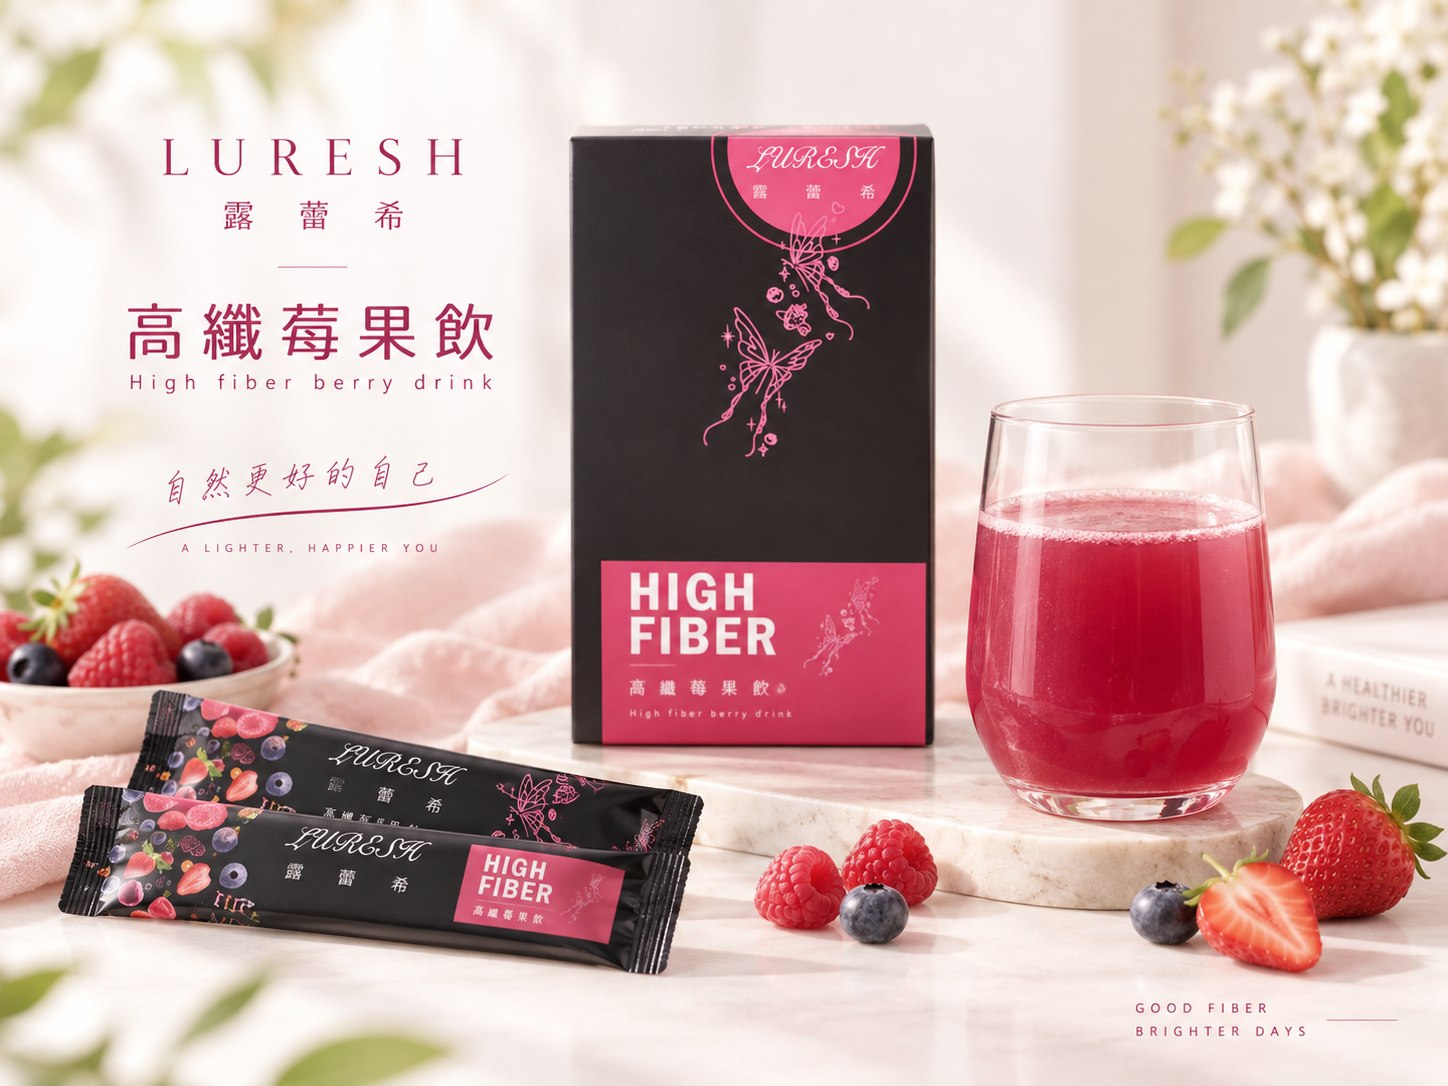
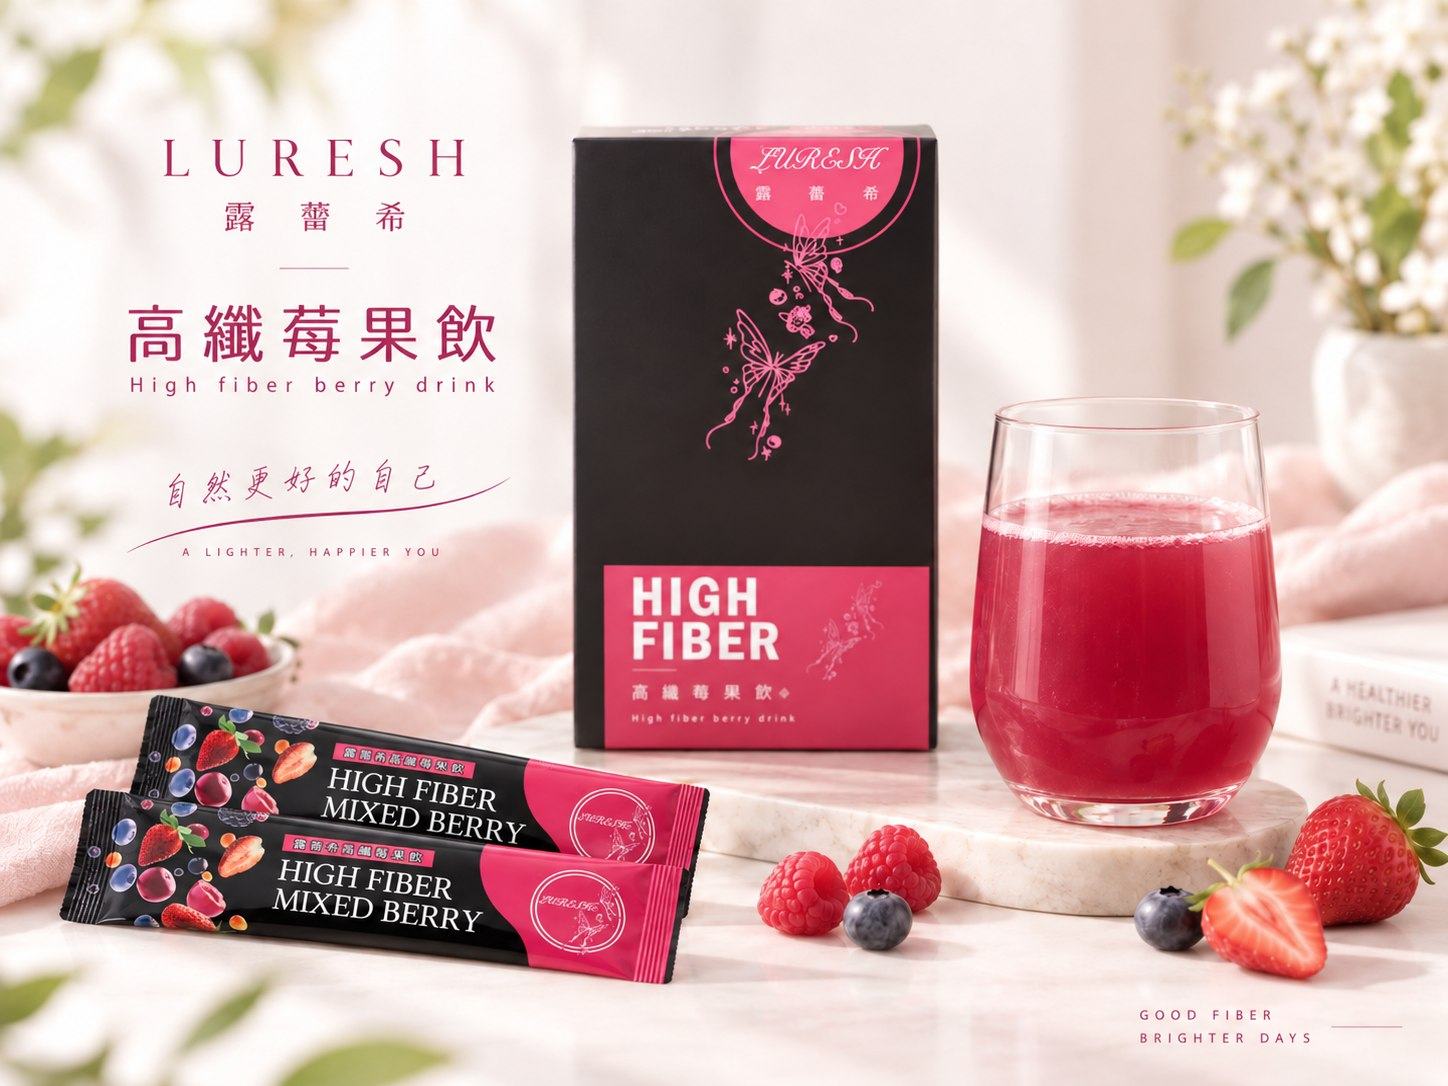
高纖莓果飲新包裝圖；商城新增日日水紅茶、茉莉花茶

diff --git a/product.html b/product.html
@@ -3,13 +3,25 @@
 <head>
 <meta charset="utf-8">
 <meta name="viewport" content="width=device-width, initial-scale=1">
-<title>高纖莓果飲｜露蕾希 LURESH</title>
-<meta name="description" content="露蕾希高纖莓果飲。特選專利植萃 × 多重膳食纖維，低卡負擔、蛋奶素可食、專利專屬配方。">
+<title>商品｜露蕾希 LURESH</title>
+<meta name="description" content="露蕾希高纖莓果飲、日日水紅茶與茉莉花茶。">
 <link rel="preconnect" href="https://fonts.googleapis.com">
 <link rel="preconnect" href="https://fonts.gstatic.com" crossorigin>
 <link href="https://fonts.googleapis.com/css2?family=Cormorant+Garamond:ital,wght@0,400;0,500;0,600;1,400;1,500&family=Noto+Serif+TC:wght@400;500;600;700&family=Noto+Sans+TC:wght@300;400;500;700&display=swap" rel="stylesheet">
 <link rel="stylesheet" href="styles.css">
 <link rel="stylesheet" href="shop.css">
+<style>
+  .related{padding:0 0 96px}
+  .related h2{text-align:center;margin-bottom:34px}
+  .related .grid{display:grid;grid-template-columns:repeat(2,1fr);gap:26px;max-width:760px;margin:0 auto}
+  .related a{display:grid;grid-template-columns:110px 1fr;gap:16px;align-items:center;border:1px solid var(--line);padding:14px;transition:transform .35s,box-shadow .35s}
+  .related a:hover{transform:translateY(-4px);box-shadow:0 18px 36px -24px rgba(142,39,67,.35)}
+  .related img{width:110px;height:110px;object-fit:cover}
+  .related b{font-family:var(--tc-serif);font-size:16px;font-weight:600;letter-spacing:.08em;display:block}
+  .related span{font-size:12px;color:var(--ink-soft);display:block;margin-top:4px}
+  .related i{font-style:normal;font-family:var(--serif);font-size:18px;display:block;margin-top:6px}
+  @media(max-width:600px){.related .grid{grid-template-columns:1fr}}
+</style>
 </head>
 <body>
 
@@ -39,20 +51,20 @@
 </header>
 
 <main class="wrap">
-  <div class="crumb"><a href="shop.html">商城</a><span>/</span><span id="crumbName">高纖莓果飲</span></div>
+  <div class="crumb"><a href="shop.html">商城</a><span>/</span><span id="crumbName"></span></div>
 
   <div class="product">
     <div class="gallery">
-      <div class="main"><img id="mainImg" src="images/hero-product.jpg" alt="露蕾希高纖莓果飲"></div>
+      <div class="main"><img id="mainImg" src="" alt=""></div>
       <div class="thumbs" id="thumbs"></div>
     </div>
 
     <div class="pinfo">
-      <div class="eyebrow">High Fiber Berry Drink</div>
-      <h1>露蕾希高纖莓果飲<small>LURESH · Luresh High Fiber</small></h1>
-      <div class="price"><span class="now"><b>NT$</b><span id="priceNow">1,280</span></span><span class="was" id="priceWas"></span><span class="save" id="priceSave" hidden></span></div>
+      <div class="eyebrow" id="eyebrow"></div>
+      <h1><span id="pname"></span><small id="pen"></small></h1>
+      <div class="price"><span class="now"><b>NT$</b><span id="priceNow"></span></span><span class="was" id="priceWas"></span><span class="save" id="priceSave" hidden></span></div>
       <div class="per" id="per"></div>
-      <p class="desc">專為外食族、忙碌上班族設計的輕體代謝飲品。結合多重纖維、強效酵素與阻斷澱粉、燃燒代謝專利萃取。每日 2 包，幫你輕鬆找回順暢快感與青春活力。</p>
+      <p class="desc" id="pdesc"></p>
 
       <div class="opt-label">規格<em id="optName"></em></div>
       <div class="variants" id="variants"></div>
@@ -69,43 +81,16 @@
         <button class="btn" onclick="add(true)">立即購買</button>
       </div>
 
-      <ul class="perks">
-        <li><svg viewBox="0 0 24 24"><path d="M5 12l4 4L19 6"/></svg>低卡負擔，每份僅 34.4 大卡</li>
-        <li><svg viewBox="0 0 24 24"><path d="M5 12l4 4L19 6"/></svg>蛋奶素可食・專利專屬配方</li>
-        <li><svg viewBox="0 0 24 24"><path d="M5 12l4 4L19 6"/></svg>台灣製造，通過多項 SGS 認證</li>
-        <li><svg viewBox="0 0 24 24"><path d="M5 12l4 4L19 6"/></svg>超商取貨、宅配到府，滿 NT$2,000 免運</li>
-      </ul>
-
-      <div class="acc">
-        <details open>
-          <summary>成分</summary>
-          <div class="body">綜合蔬果酵素、魔芋纖維、大麥萃取物、非洲芒果種子萃取物、藤黃果萃取物、白腎豆萃取物、洋車前子多酚、柑橘類黃酮與瓜拿納複合物（甜橙、血橙、葡萄柚及瓜拿納萃取物）、決明子萃取物。</div>
-        </details>
-        <details>
-          <summary>食用方法</summary>
-          <div class="body"><ul>
-            <li>睡前 30 分鐘，使用兩包高纖莓果飲，加入 240cc 的常溫或冷水，搖勻。</li>
-            <li>最佳飲用時間為晚上 9–11 點。嚴禁溫熱水。</li>
-            <li>蓋上搖杯搖 3–5 秒搖勻，不可放置超過十秒，直接飲用完畢。喝完請勿進食。</li>
-            <li>經期可以正常食用。</li>
-          </ul></div>
-        </details>
-        <details>
-          <summary>配送與退換貨</summary>
-          <div class="body"><ul>
-            <li>超商取貨運費 NT$60，宅配 NT$100，單筆滿 NT$2,000 免運。</li>
-            <li>付款完成後 1–2 個工作天出貨。</li>
-            <li>食品類商品拆封後恕不退換；未拆封可於收到 7 天內申請退貨。</li>
-          </ul></div>
-        </details>
-        <details>
-          <summary>攜帶出國</summary>
-          <div class="body">粉狀沖泡飲隨身行李不得超過 350g，一條 12.5g，隨身請控制在 28 包（14 天份）以內；託運則無此限制。</div>
-        </details>
-      </div>
-      <p class="notice">※ 價格與內容量為示意值，待確認後更新</p>
+      <ul class="perks" id="perks"></ul>
+      <div class="acc" id="acc"></div>
+      <p class="notice">※ 價格、內容量與茶品說明為示意值，待確認後更新</p>
     </div>
   </div>
+
+  <section class="related">
+    <h2><span class="en">You may also like</span>其他產品</h2>
+    <div class="grid" id="related"></div>
+  </section>
 </main>
 
 <footer>
@@ -122,39 +107,53 @@
 
 <script src="shop.js"></script>
 <script>
-  const IMAGES = ['images/hero-product.jpg','images/lifestyle-bed.jpg','images/ingredients-banner.jpg','images/poster-ingredients.jpg'];
-  const thumbs = document.getElementById('thumbs');
-  thumbs.innerHTML = IMAGES.map((src, i) => `<button type="button" class="${i===0?'on':''}" onclick="pick(${i})"><img src="${src}" alt=""></button>`).join('');
-  function pick(i){ document.getElementById('mainImg').src = IMAGES[i]; [...thumbs.children].forEach((b, j) => b.classList.toggle('on', i === j)); }
+  const q = new URLSearchParams(location.search);
+  const P = findProduct(q.get('p')) || PRODUCTS[0];
+  let current = P.variants.some(v => v.id === q.get('v')) ? q.get('v') : P.variants[0].id;
 
-  let current = new URLSearchParams(location.search).get('v') || 'box1';
-  if (!PRODUCT.variants.some(v => v.id === current)) current = 'box1';
+  document.title = P.name + '｜露蕾希 LURESH';
+  document.getElementById('crumbName').textContent = P.name;
+  document.getElementById('eyebrow').textContent = P.eyebrow;
+  document.getElementById('pname').textContent = P.name;
+  document.getElementById('pen').textContent = 'LURESH · ' + P.en;
+  document.getElementById('pdesc').textContent = P.desc;
+  document.getElementById('perks').innerHTML = P.perks.concat(['超商取貨、宅配到府，滿 NT$2,000 免運']).map(t => `<li><svg viewBox="0 0 24 24"><path d="M5 12l4 4L19 6"/></svg>${t}</li>`).join('');
+  document.getElementById('acc').innerHTML = P.sections.concat([SHIP_SECTION]).map(([t, b], i) => `<details ${i===0?'open':''}><summary>${t}</summary><div class="body">${b}</div></details>`).join('');
+
+  const thumbs = document.getElementById('thumbs');
+  thumbs.innerHTML = P.gallery.map((src, i) => `<button type="button" class="${i===0?'on':''}" onclick="pick(${i})"><img src="${src}" alt=""></button>`).join('');
+  function pick(i){ const m = document.getElementById('mainImg'); m.src = P.gallery[i]; m.alt = P.name; [...thumbs.children].forEach((b, j) => b.classList.toggle('on', i === j)); }
+  pick(0);
+
   const vbox = document.getElementById('variants');
   function renderVariants(){
-    vbox.innerHTML = PRODUCT.variants.map(v => `
+    vbox.innerHTML = P.variants.map(v => `
       <button type="button" class="variant ${v.id===current?'on':''}" onclick="choose('${v.id}')">
         ${v.tag ? `<span class="tag">${v.tag}</span>` : ''}
         <b>${v.name}</b><span>${v.desc}</span><i>${money(v.price)}</i>
       </button>`).join('');
-    const v = PRODUCT.variants.find(v => v.id === current);
+    vbox.style.gridTemplateColumns = `repeat(${Math.min(3, P.variants.length)},1fr)`;
+    const v = P.variants.find(v => v.id === current);
     document.getElementById('priceNow').textContent = v.price.toLocaleString('zh-Hant-TW');
     document.getElementById('priceWas').textContent = v.was ? money(v.was) : '';
     const save = document.getElementById('priceSave');
     if (v.was) { save.hidden = false; save.textContent = '省 ' + money(v.was - v.price); } else save.hidden = true;
     document.getElementById('optName').textContent = v.name + '・' + v.desc;
-    document.getElementById('crumbName').textContent = '高纖莓果飲・' + v.name;
-    const sticks = parseInt(v.desc) || 0;
-    document.getElementById('per').textContent = sticks ? '平均每條 ' + money(Math.round(v.price / sticks)) + '・每日 2 條' : '';
-    history.replaceState(null, '', '?v=' + current);
+    const n = parseInt(v.desc) || 0;
+    document.getElementById('per').textContent = n ? `平均每${P.unit} ${money(Math.round(v.price / n))}・每日 ${P.perDay} ${P.unit}` : '';
+    history.replaceState(null, '', `?p=${P.id}&v=${current}`);
   }
   function choose(id){ current = id; renderVariants(); }
-  function bump(d){ const q = document.getElementById('qty'); q.value = Math.max(1, (parseInt(q.value) || 1) + d); }
+  function bump(d){ const el = document.getElementById('qty'); el.value = Math.max(1, (parseInt(el.value) || 1) + d); }
   function add(buyNow){
     const qty = Math.max(1, parseInt(document.getElementById('qty').value) || 1);
-    addToCart(current, qty);
+    addToCart(P.id, current, qty);
     location.href = buyNow ? 'checkout.html' : 'cart.html';
   }
   renderVariants();
+
+  document.getElementById('related').innerHTML = PRODUCTS.filter(x => x.id !== P.id).map(x => `
+    <a href="product.html?p=${x.id}"><img src="${x.image}" alt=""><div><b>${x.name}</b><span>${x.en}・${x.variants[0].desc}</span><i>${money(x.variants[0].price)} 起</i></div></a>`).join('');
 </script>
 </body>
 </html>

diff --git a/shop.js b/shop.js
@@ -3,44 +3,90 @@ const LURESH_API = (location.hostname === 'localhost' || location.hostname === '
   ? 'http://localhost:8787'
   : 'https://luresh-api.king1234t.workers.dev';
 
-// ※ 價格與內容量為示意值，待確認後更新
-const PRODUCT = {
-  id: 'hfbd',
-  name: '露蕾希高纖莓果飲',
-  en: 'High Fiber Berry Drink',
-  image: 'images/hero-product.jpg',
-  variants: [
-    { id: 'box1', name: '單盒', desc: '30 條 · 15 天份', price: 1280, was: null,  tag: null },
-    { id: 'box2', name: '兩盒組', desc: '60 條 · 30 天份', price: 2400, was: 2560, tag: '熱銷' },
-    { id: 'box3', name: '三盒組', desc: '90 條 · 45 天份', price: 3480, was: 3840, tag: '最划算' },
-  ],
-};
+// ※ 價格、內容量與茶品說明為示意值，待確認後更新
+const PRODUCTS = [
+  {
+    id: 'hfbd', name: '露蕾希高纖莓果飲', en: 'High Fiber Berry Drink', eyebrow: 'High Fiber Berry Drink',
+    image: 'images/hero-product.jpg',
+    gallery: ['images/hero-product.jpg', 'images/lifestyle-bed.jpg', 'images/ingredients-banner.jpg', 'images/poster-ingredients.jpg'],
+    tagline: '擺脫囤積感！每日喝出輕盈順暢力',
+    desc: '專為外食族、忙碌上班族設計的輕體代謝飲品。結合多重纖維、強效酵素與阻斷澱粉、燃燒代謝專利萃取。每日 2 包，幫你輕鬆找回順暢快感與青春活力。',
+    perks: ['低卡負擔，每份僅 34.4 大卡', '蛋奶素可食・專利專屬配方', '台灣製造，通過多項 SGS 認證'],
+    unit: '條', perDay: 2,
+    variants: [
+      { id: 'box1', name: '單盒',   desc: '30 條 · 15 天份', price: 1280, was: null, tag: null },
+      { id: 'box2', name: '兩盒組', desc: '60 條 · 30 天份', price: 2400, was: 2560, tag: '熱銷' },
+      { id: 'box3', name: '三盒組', desc: '90 條 · 45 天份', price: 3480, was: 3840, tag: '最划算' },
+    ],
+    sections: [
+      ['成分', '綜合蔬果酵素、魔芋纖維、大麥萃取物、非洲芒果種子萃取物、藤黃果萃取物、白腎豆萃取物、洋車前子多酚、柑橘類黃酮與瓜拿納複合物（甜橙、血橙、葡萄柚及瓜拿納萃取物）、決明子萃取物。'],
+      ['食用方法', '<ul><li>睡前 30 分鐘，使用兩包高纖莓果飲，加入 240cc 的常溫或冷水，搖勻。</li><li>最佳飲用時間為晚上 9–11 點。嚴禁溫熱水。</li><li>蓋上搖杯搖 3–5 秒搖勻，不可放置超過十秒，直接飲用完畢。喝完請勿進食。</li><li>經期可以正常食用。</li></ul>'],
+      ['攜帶出國', '粉狀沖泡飲隨身行李不得超過 350g，一條 12.5g，隨身請控制在 28 包（14 天份）以內；託運則無此限制。'],
+    ],
+  },
+  {
+    id: 'tea-black', name: '露蕾希日日水・紅茶', en: 'Black Tea', eyebrow: 'Luresh Daily Tea · Black Tea',
+    image: 'images/tea-black.jpg',
+    gallery: ['images/tea-black.jpg', 'images/tea-jasmine.jpg'],
+    tagline: '一杯茶香，更輕盈的自己',
+    desc: '露蕾希日日水紅茶茶包，日常的輕盈陪伴。（產品說明待補）',
+    perks: ['每日一杯，隨時沖泡', '台灣製造', '成分與檢驗資料待補'],
+    unit: '包', perDay: 1,
+    variants: [
+      { id: 'box1', name: '單盒',   desc: '15 包 · 15 天份', price: 680,  was: null, tag: null },
+      { id: 'box2', name: '兩盒組', desc: '30 包 · 30 天份', price: 1280, was: 1360, tag: '熱銷' },
+    ],
+    sections: [
+      ['成分', '待補。'],
+      ['沖泡方法', '待補。'],
+    ],
+  },
+  {
+    id: 'tea-jasmine', name: '露蕾希日日水・茉莉花茶', en: 'Jasmine Tea', eyebrow: 'Luresh Daily Tea · Jasmine Tea',
+    image: 'images/tea-jasmine.jpg',
+    gallery: ['images/tea-jasmine.jpg', 'images/tea-black.jpg'],
+    tagline: '一杯花香，更輕盈的自己',
+    desc: '露蕾希日日水茉莉花茶茶包，日常的輕盈陪伴。（產品說明待補）',
+    perks: ['每日一杯，隨時沖泡', '台灣製造', '成分與檢驗資料待補'],
+    unit: '包', perDay: 1,
+    variants: [
+      { id: 'box1', name: '單盒',   desc: '15 包 · 15 天份', price: 680,  was: null, tag: null },
+      { id: 'box2', name: '兩盒組', desc: '30 包 · 30 天份', price: 1280, was: 1360, tag: '熱銷' },
+    ],
+    sections: [
+      ['成分', '待補。'],
+      ['沖泡方法', '待補。'],
+    ],
+  },
+];
 const SHIPPING = {
   cvs:  { name: '超商取貨（7-11 / 全家）', fee: 60,  free: 2000 },
   home: { name: '宅配到府（黑貓）',        fee: 100, free: 2000 },
 };
+const SHIP_SECTION = ['配送與退換貨', '<ul><li>超商取貨運費 NT$60，宅配 NT$100，單筆滿 NT$2,000 免運。</li><li>付款完成後 1–2 個工作天出貨。</li><li>食品類商品拆封後恕不退換；未拆封可於收到 7 天內申請退貨。</li></ul>'];
 
 const money = n => 'NT$ ' + Number(n).toLocaleString('zh-Hant-TW');
+const findProduct = id => PRODUCTS.find(p => p.id === id);
 
-/* ---- cart storage ---- */
+/* ---- cart storage（每列 key = 商品id:規格id）---- */
 function getCart(){ try { return JSON.parse(localStorage.getItem('luresh_cart') || '[]'); } catch(e){ return []; } }
 function saveCart(c){ localStorage.setItem('luresh_cart', JSON.stringify(c)); updateBag(); }
-function addToCart(variantId, qty){
+function addToCart(productId, variantId, qty){
   const cart = getCart();
-  const row = cart.find(r => r.variantId === variantId);
-  if (row) row.qty += qty; else cart.push({ variantId, qty });
+  const row = cart.find(r => r.productId === productId && r.variantId === variantId);
+  if (row) row.qty += qty; else cart.push({ productId, variantId, qty });
   saveCart(cart);
 }
-function setQty(variantId, qty){
+function setQty(productId, variantId, qty){
   let cart = getCart();
-  if (qty <= 0) cart = cart.filter(r => r.variantId !== variantId);
-  else { const row = cart.find(r => r.variantId === variantId); if (row) row.qty = qty; }
+  if (qty <= 0) cart = cart.filter(r => !(r.productId === productId && r.variantId === variantId));
+  else { const row = cart.find(r => r.productId === productId && r.variantId === variantId); if (row) row.qty = qty; }
   saveCart(cart);
 }
 function cartLines(){
   return getCart().map(r => {
-    const v = PRODUCT.variants.find(v => v.id === r.variantId);
-    return v ? { ...r, v, amount: v.price * r.qty } : null;
+    const p = findProduct(r.productId); const v = p && p.variants.find(v => v.id === r.variantId);
+    return (p && v) ? { ...r, p, v, amount: v.price * r.qty } : null;
   }).filter(Boolean);
 }
 function cartSubtotal(){ return cartLines().reduce((s, l) => s + l.amount, 0); }

diff --git a/shop.html b/shop.html
@@ -69,8 +69,8 @@
     <div class="t">
       <div class="eyebrow">Shop our favorite</div>
       <h2><span class="en">Every day, two sticks</span>更輕盈的自己，從一杯開始</h2>
-      <p>每日 2 包，睡前 30 分鐘沖 240cc 常溫或冷水搖勻。特選專利植萃 × 多重膳食纖維，低卡負擔、蛋奶素可食。</p>
-      <div><a class="btn" href="product.html?v=box1">看商品</a></div>
+      <p>高纖莓果飲全新包裝上市，再加入日日水紅茶與茉莉花茶。特選專利植萃 × 多重膳食纖維，低卡負擔、蛋奶素可食。</p>
+      <div><a class="btn" href="product.html?p=hfbd">看高纖莓果飲</a></div>
     </div>
   </div>
 
@@ -92,16 +92,19 @@
 <script src="shop.js"></script>
 <script>
   const list = document.getElementById('plist');
-  list.innerHTML = PRODUCT.variants.map((v, i) => `
+  list.innerHTML = PRODUCTS.map(p => {
+    const base = p.variants[0];
+    const best = p.variants.find(v => v.tag) ;
+    return `
     <div class="pcard">
-      ${v.tag ? `<span class="tag">${v.tag}</span>` : ''}
-      <a href="product.html?v=${v.id}" class="img"><img src="${i === 0 ? 'images/hero-product.jpg' : i === 1 ? 'images/lifestyle-bed.jpg' : 'images/ingredients-banner.jpg'}" alt="${PRODUCT.name} ${v.name}"></a>
-      <h3>${PRODUCT.name}・${v.name}</h3>
-      <div class="d">${v.desc}</div>
-      <div class="p">${v.was ? `<s>${money(v.was)}</s>` : ''}${money(v.price)}</div>
-      <button class="btn" onclick="addToCart('${v.id}',1);location.href='cart.html'">加入購物車</button>
-      <a class="btn ghost" href="product.html?v=${v.id}">商品細節</a>
-    </div>`).join('') + '<p class="sub">※ 價格與內容量為示意值，待確認後更新</p>';
+      ${p.id === 'hfbd' ? '<span class="tag">新包裝</span>' : '<span class="tag">新品</span>'}
+      <a href="product.html?p=${p.id}" class="img"><img src="${p.image}" alt="${p.name}"></a>
+      <h3>${p.name}</h3>
+      <div class="d">${p.en}・${base.desc} 起</div>
+      <div class="p">${money(base.price)} <span style="font-size:13px;color:var(--ink-soft)">起</span></div>
+      <button class="btn" onclick="addToCart('${p.id}','${base.id}',1);location.href='cart.html'">加入購物車（${base.name}）</button>
+      <a class="btn ghost" href="product.html?p=${p.id}">商品細節${best ? '・' + best.name + '更划算' : ''}</a>
+    </div>`; }).join('') + '<p class="sub">※ 價格、內容量與茶品說明為示意值，待確認後更新</p>';
 </script>
 </body>
 </html>

diff --git a/checkout.html b/checkout.html
@@ -121,7 +121,7 @@
   function payment(){ return form.payment.value; }
   function totals(){ const sub = cartSubtotal(); const ship = shippingFee(shipping()); return { sub, ship, total: sub + ship }; }
   function render(){
-    document.getElementById('items').innerHTML = lines.map(l => `<div class="line"><span>${PRODUCT.name}・${l.v.name} × ${l.qty}</span><b>${money(l.amount)}</b></div>`).join('');
+    document.getElementById('items').innerHTML = lines.map(l => `<div class="line"><span>${l.p.name}・${l.v.name} × ${l.qty}</span><b>${money(l.amount)}</b></div>`).join('');
     const t = totals();
     document.getElementById('sub').textContent = money(t.sub);
     document.getElementById('ship').textContent = t.ship ? money(t.ship) : '免運';
@@ -150,8 +150,8 @@
     const t = totals();
     return {
       amount: t.total,
-      itemName: lines.map(l => `${PRODUCT.name} ${l.v.name} x${l.qty}`).join('#'),
-      items: lines.map(l => ({ sku: l.variantId, name: l.v.name, qty: l.qty, price: l.v.price })),
+      itemName: lines.map(l => `${l.p.name} ${l.v.name} x${l.qty}`).join('#'),
+      items: lines.map(l => ({ sku: l.p.id + ':' + l.variantId, name: l.p.name + ' ' + l.v.name, qty: l.qty, price: l.v.price })),
       subtotal: t.sub, shippingFee: t.ship,
       name: form.name.value.trim(), phone: form.phone.value.trim(), email: form.email.value.trim(),
       shipping: shipping(), store: form.store.value.trim(), storeBrand: form.storeBrand.value, address: form.address.value.trim(),
@@ -178,7 +178,7 @@
   s.onload = () => paypal.Buttons({
     style: { layout: 'vertical', color: 'black', shape: 'rect', label: 'paypal' },
     onClick: (data, actions) => validate() ? actions.resolve() : actions.reject(),
-    createOrder: (data, actions) => actions.order.create({ purchase_units: [{ description: 'LURESH High Fiber Berry Drink', amount: { currency_code: 'USD', value: (totals().total / USD_RATE).toFixed(2) } }] }),
+    createOrder: (data, actions) => actions.order.create({ purchase_units: [{ description: 'LURESH order', amount: { currency_code: 'USD', value: (totals().total / USD_RATE).toFixed(2) } }] }),
     onApprove: async (data, actions) => {
       const d = await actions.order.capture();
       const cap = d.purchase_units?.[0]?.payments?.captures?.[0];

diff --git a/cart.html b/cart.html
@@ -84,17 +84,17 @@
     } else {
       rows.innerHTML = lines.map(l => `
         <div class="crow">
-          <img src="${PRODUCT.image}" alt="">
+          <img src="${l.p.image}" alt="">
           <div>
-            <div class="nm">${PRODUCT.name}</div>
+            <div class="nm"><a href="product.html?p=${l.p.id}&v=${l.v.id}">${l.p.name}</a></div>
             <div class="vr">${l.v.name}・${l.v.desc}・${money(l.v.price)}</div>
-            <button class="rm" onclick="setQty('${l.variantId}',0);render()">移除</button>
+            <button class="rm" onclick="setQty('${l.p.id}','${l.variantId}',0);render()">移除</button>
           </div>
           <div class="rt">
             <div class="qty">
-              <button type="button" onclick="setQty('${l.variantId}',${l.qty-1});render()">−</button>
-              <input type="number" min="1" value="${l.qty}" onchange="setQty('${l.variantId}',Math.max(1,parseInt(this.value)||1));render()">
-              <button type="button" onclick="setQty('${l.variantId}',${l.qty+1});render()">+</button>
+              <button type="button" onclick="setQty('${l.p.id}','${l.variantId}',${l.qty-1});render()">−</button>
+              <input type="number" min="1" value="${l.qty}" onchange="setQty('${l.p.id}','${l.variantId}',Math.max(1,parseInt(this.value)||1));render()">
+              <button type="button" onclick="setQty('${l.p.id}','${l.variantId}',${l.qty+1});render()">+</button>
             </div>
             <div class="amt">${money(l.amount)}</div>
           </div>
